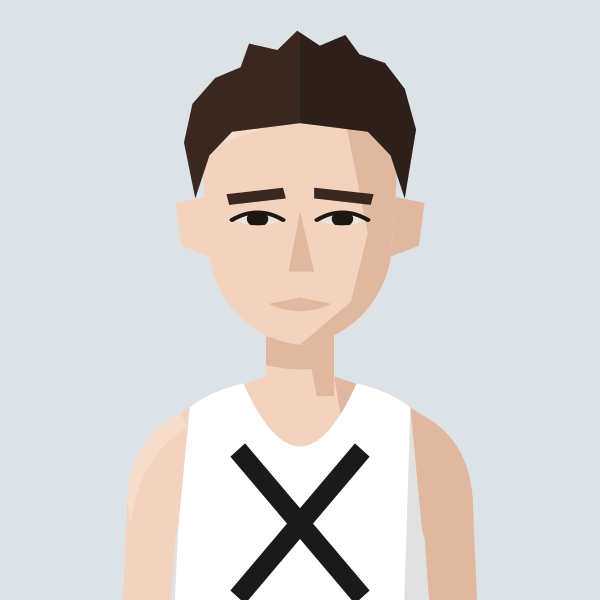
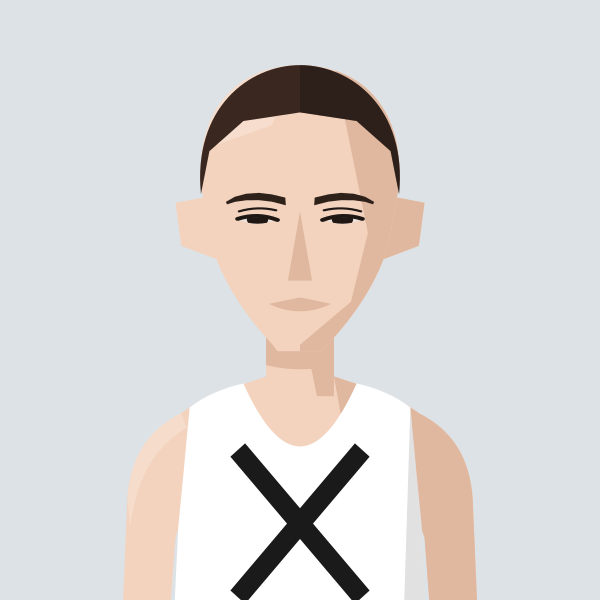
Redraw Jared Martin: triangular head with a long flat chin, short crop, small hooded eyes, soft curved brows
Claude-Session: https://claude.ai/code/session_01MgmDWhFqnSSnP4iBLKXUZC

diff --git a/files/index.html b/files/index.html
@@ -876,7 +876,7 @@ const portraitFile=(name,club)=>{const k=normalizeNameForCompare(name||'').repla
 const portraitClubOf=(name,clubs)=>{for(const c of clubs||[]){if(c&&portraitFile(name,c))return c;}return null;}; /* first of these clubs we have a portrait for */
 // Athlete header figure: superstar portrait if we have one, else a grey runner in the club vest, else the plain vest icon
 // Changes whenever any portrait changes (set by tools/build_og.py), so browsers fetch fresh images instead of old cached ones
-const PORTRAIT_V='fe9d2b44';const PORTRAIT_WOMEN='abbey-brooke,abbie-bulbulian,adele-prince,aimee-hargreaves,aisling-ahern,alex-brown,alex-gandee,alex-marginean,alex-miller,alexa-parker,alexandra-barbour,alice-braham,alice-bridger-morales,alice-crane,alice-martin,alice-reed,alice-smith,alison-purnell,alison-thomson,amelia-pettitt,amy-clements,andrea-barber,anika-schwarze-chintapatla,anna-garnier,anna-garnier-hw,anna-sharp,annabel-hobday,annabelle-hadlow,anne-hegvold,annmarie-seymour,ava-mcandie,becky-briggs,bethan-goddard,bethanie-murray,bethany-brown,betsy-griffiths,billie-mcclosky,camilla-barden,caoimhe-nic-fhogartaigh,carolyne-baxter,catherine-bryson,catherine-eastham,catherine-kandie,cathy-ansell,charlotte-griffiths,chloe-beckett,chloe-tighe,chrissie-wellington,claire-grima,clara-pettit,clare-elms,clare-pauzers,dillan-quinn,dorchie-cockerell,eilidh-hide,elinor-skinner,eliza-grant,elizabeth-apsley,elizabeth-stavreski,ella-fennelly,ella-king-powrie,ella-may-hards,ella-newton,ellen-weir,ellie-brown,ellie-freeden,eloise-bull,emilie-arnoux,emily-barrett,emily-bradley,emily-lowery,emily-robbins,emma-gordon,emma-howsham,emma-lord,emma-rowland,estle-viljoen,evie-warren,felicity-cole,felicity-harrison,felicity-hayward,fi-maddocks,fiona-de-mauny,florence-wiggins,gabby-collison,gabriel-reynolds,gemma-newport,genevieve-blanch,georgia-curry,georgie-bruinvels,georgie-fenn,georgie-furze,georgie-grgec,gina-galbraith,grace-leyland,grace-richardson,hannah-edwards,hannah-english,heather-statham,heather-statham-cc,helena-corbin,helena-keenan,holly-nixon,holly-pan,imogen-mackie,imogen-wolsey,iona-cousland,isabel-bradley,isabel-brinsden,isabelle-pickett,isobel-hodder,jennifer-nandi,jennifer-smith,jess-reed,jess-saunders,jess-winfield,jessica-davies,jessica-lowe,jodie-favell,jon-hobbs,josephine-rhodes,julia-bleasdale,julia-wedmore,juliet-hodder,jurgita-levertaviciute,justine-lynch,karen-fenner,karen-xiang,karina-box,kate-axford,kate-williams,kathy-sharpe,katie-ellen-french,katie-good,katie-snowden,katy-hedgethorne,kitty-shepherd-cross,kristina-popadich,lara-bromilow,lara-mangan,laura-goodson,laura-miles,lauren-major,lea-adamson,lily-newton,lisa-bailey,lisa-thomas,lisa-thomas-hw,lizzie-goldie-scot,louise-cooper,lucy-jones,lucy-macalister,lucy-peters,lydia-blackmore,lydia-gallyer-barnett,maddie-mastrolonardo,maddy-whitman,maeve-kenny,margaret-coogan,martina-conner,mary-james,mary-setyabule,matilde-lomba,megan-gildea,mel-wilkins,mhairi-hall,mimi-corden-lloyd,molly-oconnor,molly-smith,monika-gajek,naomi-lenane,natalie-beadle,natalie-seymour,natasha-lodge,niamh-thompson,nicky-hayes,nicola-cartlidge,nicola-douglas,nikki-sturzaker,olivia-papaioannou,olivia-stillman,orna-mcginley,pamela-mchutchon,patricia-walker,patrizia-gnoato,penny-oliver,rachel-brown,rebecca-barrow,rebekah-edgar,ruby-carter,ruby-whyte-wilding,ruby-woolfe,sally-urquhart,sam-whiting,samantha-munday,sarah-astin,sarah-dewhirst,sarah-grover,sarah-hanley,sarah-holt,sarah-murphy,sarah-palmer,sarah-palmer-ran,sarah-riceman,sarah-young,saron-haileselase,serena-carter,sophie-cowper,sophie-harris,sophie-hicks,sophie-tooley,stacey-ward,steph-hewitt,steph-mccall,steph-mccall-cc,steph-mccall-slh,steph-mitchell,suzanne-swaine,suze-spalding,suzie-harvey,suzy-whatmough,teresa-murphy,tilly-heaton,tilly-heaton-bel,tish-jones,vic-cartwright,vicky-clarke,victoria-barthelmess,victoria-buck,vikki-filsell,zoe-doyle,zoe-macdonald,zuzana-nemeckova';const PORTRAIT_MEN='aaron-wilson,abdulla-elsadig,adam-leane,adrian-major,adrien-royer,alan-black,alan-mead,alex-brecker,alex-bruce-littlewood,alex-gutteridge,alex-harris,alex-howard,alex-janiaud,alex-lee,alex-lennon,alex-mills,alex-milne,alex-morales,alex-robinson,alex-yee,alexander-marks,amittai-ben-israel,andrew-cumine,andrew-green,andrew-penney,andrew-perfect,andrew-simms,andrew-warburton,andrius-jaksevicius,andy-coley-maud,andy-coley-maud-cc,andy-fyfe,andy-north,andy-paton,andy-weir,angus-butler,angus-lamb,anisse-ismaili,arlo-ludewick,arne-dumez,arthur-peel,ashley-goncalves,barnaby-day,barry-collins,barry-sawyer,ben-clarke,ben-coughlan,ben-harding,ben-hurley,ben-ireland,ben-millar,ben-paviour,ben-pearce,ben-racle,ben-revill,ben-reynolds,ben-scott,ben-toomer,benedict-whitby,benjamin-hilson,bernie-ford,bill-kerr,bill-weller,bill-weller-wal,bob-harrison,bob-holt,bob-lunnon,bob-rayman,bob-smith,bradley-courtney-pinn,brandon-dewar,brian-gorman,brian-wilder,caleb-hathaway,callum-stewart,cameron-dockerill,cameron-reilly,carl-delaney,charles-herrington,charlie-dabbs,charlie-dickinson,charlie-eastaugh,charlie-manning,charlie-pickett,charlie-rogers,charlie-sandison,charlie-walker,charlie-wyllie,che-compton,chris-busaileh,chris-busaileh-hhh,chris-greenwood,chris-keavey,chris-moss,chris-steer,chris-threadgold,chris-warren,christian-lee,christopher-parker,clive-gilby,clive-shippen,colin-high,colin-pearson,conall-mcnally,conall-whelan,craig-ruddy,dame-dibaba,dan-cliffe,dan-pettitt,daniel-shaw,daniel-wolff,darren-mead,dave-beard,dave-beaver,dave-glassborow,dave-holt,dave-taylor,david-anderson,david-bowers,david-grima,david-north,david-ogden,david-symons,david-walsh,david-williams,deron-fagan,dick-piotrowski,dimos-evangelidis,dom-nolan,dominic-kiralyfi,don-anderson,don-faircloth,don-maclean,doug-maughan,duncan-rimmer,dylan-evans,dylan-mitchard,ed-brewer,ed-catmur,ed-gibson,ed-mallett,eddie-herridge,eddie-jodrell,eddie-rolls,edward-chuck,eoin-brady,eoin-molloy,ethan-mccolgan,falilou-kebe,findlay-dyer,finn-johnson,fintan-pearce,frank-tickner,frank-ward,fred-paget,fred-slemeck,freddie-hessian,garret-lee,gary-ribbons,gary-ribbons-ee,gary-staines,gary-staines-bel,gavin-eccles,geoff-biscoe,geoff-jerwood,geoff-north,george-cotton,george-gathercole,george-jackson,george-loxton,george-mallett,george-ogden,gerry-adams,gerry-north,glen-keegan,gordon-pearce,graham-macky,grenville-tuck,harrison-hayman,harry-guttridge,hector-revill,henry-hart,henry-silverstein,hugo-hewitt,huw-lobb,ian-acreman,ian-crowe-wright,ian-ellwood,ian-harkness,indy-barnes,isaac-lutaya,isaac-parker,jack-brotchie,jack-dickson,jack-dormer,jack-hampshire,jack-harrison,jack-hobden,jack-kavanagh,jack-millar,jack-ramm,jack-woods,jacob-brockmann,jake-simmonds,james-bartram,james-blackwood,james-bowler,james-estall,james-ewing,james-fox,james-hancock,james-harvey,james-hoad,james-kelly,james-mcmullan,james-murray,james-nutt,james-preston,james-roberts,james-stockings,james-ward,james-wootton,jamie-crowe,jamie-parkinson,jared-martin,jean-paul-wright,jeff-cunningham,jeremy-dempsey,jermaine-mays,jerry-watson,jim-allchin,jim-rimmer,joe-english,joe-hartley,john-baker,john-bicourt,john-bromley,john-davies,john-dear,john-foss,john-foxall,john-gilbert,john-gladwin,john-hutchins,john-kendall,john-kimaiyo,john-lee,john-lethbridge,john-mather,john-moore,john-roberts,john-sanderson,john-stow,john-sullivan,john-thresher,jon-pepper,jon-pepper-slh,jon-phillips,jon-solly,jonathan-cocker,jonathan-collier,jonathan-cornish,jonathan-ratcliffe,jonathan-tipper,jonny-neville,jonny-scott,jordan-weaver,josh-mitchell,josh-snow,josh-trigwell,jules-gevers,junior-galley,justin-chaston,justin-reid,kassa-tadesse,keith-newton,kevin-nash,kevin-quinn,kevin-sturman,kieran-barnes,kieran-white,knut-hegvold,knut-hegvold-bel,larry-ryan,lawrence-avery,lee-lintern,lewis-lloyd,liam-burthem,lionel-mann,lloyd-kempson,luke-caldwell,mack-downie,malachi-byansi,marcello-bizio,marcelo-fortes,marco-mazzotta,mark-anderson,mark-miles,mark-sinclair,mark-tennyson,mark-waller,martin-dent,martin-duff,martin-lake,martin-lewington,martin-shore,mathew-speed,matt-chaston,matt-jones,matt-wood,matthew-edgar,matthew-houchell,matthew-thomas,matthew-varley,max-bloor,max-heyden,max-milarvie,max-nicholls,michael-baker,michael-mccarthy,mick-woods,mike-beevor,mike-boyle,mike-cummings,mike-farmery,mike-fuller,mike-hayes,mike-kortenray,mike-nouch,mohammed-ismail,monty-hudson,morgan-roberts,nathan-visick,neil-chisholm,neil-phillips,neil-speaight,neil-wilson,nic-lukies,nick-acfield,nick-altmann,nick-bester,nick-bester-hhh,nick-buckle,nick-bundle,nick-goolab,nick-lightfoot,nick-morris,nick-torry,noah-fernandez,norman-stairs,oli-carrington,oliver-carrington,oliver-fox,oliver-reynolds,oliver-young,ollie-foote,ollie-garrod,olly-buck,owen-hind,paddy-roddy,pancho-panchev,paskar-owor,pat-newell,patrick-mcdougall,paul-calver,paul-cheetham,paul-freary,paul-magner,paul-pollock,paul-sanderson,paul-sanderson-wok,pete-carton,pete-gardner,peter-clarke,peter-giles,peter-giles-thh,peter-lighting,phil-carstairs,phil-sanders,phil-sesemann,phil-swinburn,phil-wicks,phil-woodford-smith,raj-paranandi,ralph-street,ranjit-bhatia,ray-foley,reece-edwards,rhys-boorman,rian-mccawley,richard-ashe,richard-giles,richard-henderson,richard-langley,richard-mcdowell,richard-ollington,richard-partridge,richard-sun,richard-ward,rob-armstrong,rob-kelly,rob-tuer,robert-elphick,robert-laing,robert-norville,robert-peacock,robert-sesemann,robin-boon,robin-hudson,roger-alsop,roger-alsop-bel,roger-hackney,ron-clark,ron-linstead,ronan-tanguy,rory-mcmahon,rory-orsborn,ross-braden,ross-christie,rowan-board,rowan-crichton,russell-dessaix-chin,ryan-hickey,ryan-mccallister,sam-bramwell,sam-charlton,sam-gebreselassie,sam-haughian,sam-peters,sam-sommerville,sam-tyas,samuel-dames,samuel-wilcock,sean-cordon,sebastian-anthony,simon-baines,simon-coombes,simon-coppard,simon-fairbrother,simon-holmes,simon-rayner,simon-rayner-hw,simon-wade,simon-wade-hhh,simon-waterhouse,simon-williams,simon-wurr,sonny-nicoll,spencer-barden,stephen-mcleod,stephen-sharp,steve-gardner,steve-jones,steve-smythe,steve-smythe-hhh,stuart-beaney,stuart-major,stuart-major-thh,stuart-mccallum,stuart-paton,terry-booth,thomas-dugre,thomas-gandee,thomas-gardner,thomas-renshaw,tim-alexander,tim-eglen,tim-lawrence,tim-watson,toby-cooke,toby-fletcher,tom-austin,tom-cheetham,tom-conlon,tom-davies,tom-gifford,tom-higgs,tom-jervis,tom-lole,tom-south,tom-thornley,tommy-taylor,tony-binda,tony-fairclough,tony-harran,trevor-hart,valdis-pauzers,valentin-rigori,vic-maughan,wayne-oxborough,will-cockerell,will-lewis,will-marshall,will-scott,will-stockley,william-gardner,yacin-yusuf,zach-nolan';
+const PORTRAIT_V='09515851';const PORTRAIT_WOMEN='abbey-brooke,abbie-bulbulian,adele-prince,aimee-hargreaves,aisling-ahern,alex-brown,alex-gandee,alex-marginean,alex-miller,alexa-parker,alexandra-barbour,alice-braham,alice-bridger-morales,alice-crane,alice-martin,alice-reed,alice-smith,alison-purnell,alison-thomson,amelia-pettitt,amy-clements,andrea-barber,anika-schwarze-chintapatla,anna-garnier,anna-garnier-hw,anna-sharp,annabel-hobday,annabelle-hadlow,anne-hegvold,annmarie-seymour,ava-mcandie,becky-briggs,bethan-goddard,bethanie-murray,bethany-brown,betsy-griffiths,billie-mcclosky,camilla-barden,caoimhe-nic-fhogartaigh,carolyne-baxter,catherine-bryson,catherine-eastham,catherine-kandie,cathy-ansell,charlotte-griffiths,chloe-beckett,chloe-tighe,chrissie-wellington,claire-grima,clara-pettit,clare-elms,clare-pauzers,dillan-quinn,dorchie-cockerell,eilidh-hide,elinor-skinner,eliza-grant,elizabeth-apsley,elizabeth-stavreski,ella-fennelly,ella-king-powrie,ella-may-hards,ella-newton,ellen-weir,ellie-brown,ellie-freeden,eloise-bull,emilie-arnoux,emily-barrett,emily-bradley,emily-lowery,emily-robbins,emma-gordon,emma-howsham,emma-lord,emma-rowland,estle-viljoen,evie-warren,felicity-cole,felicity-harrison,felicity-hayward,fi-maddocks,fiona-de-mauny,florence-wiggins,gabby-collison,gabriel-reynolds,gemma-newport,genevieve-blanch,georgia-curry,georgie-bruinvels,georgie-fenn,georgie-furze,georgie-grgec,gina-galbraith,grace-leyland,grace-richardson,hannah-edwards,hannah-english,heather-statham,heather-statham-cc,helena-corbin,helena-keenan,holly-nixon,holly-pan,imogen-mackie,imogen-wolsey,iona-cousland,isabel-bradley,isabel-brinsden,isabelle-pickett,isobel-hodder,jennifer-nandi,jennifer-smith,jess-reed,jess-saunders,jess-winfield,jessica-davies,jessica-lowe,jodie-favell,jon-hobbs,josephine-rhodes,julia-bleasdale,julia-wedmore,juliet-hodder,jurgita-levertaviciute,justine-lynch,karen-fenner,karen-xiang,karina-box,kate-axford,kate-williams,kathy-sharpe,katie-ellen-french,katie-good,katie-snowden,katy-hedgethorne,kitty-shepherd-cross,kristina-popadich,lara-bromilow,lara-mangan,laura-goodson,laura-miles,lauren-major,lea-adamson,lily-newton,lisa-bailey,lisa-thomas,lisa-thomas-hw,lizzie-goldie-scot,louise-cooper,lucy-jones,lucy-macalister,lucy-peters,lydia-blackmore,lydia-gallyer-barnett,maddie-mastrolonardo,maddy-whitman,maeve-kenny,margaret-coogan,martina-conner,mary-james,mary-setyabule,matilde-lomba,megan-gildea,mel-wilkins,mhairi-hall,mimi-corden-lloyd,molly-oconnor,molly-smith,monika-gajek,naomi-lenane,natalie-beadle,natalie-seymour,natasha-lodge,niamh-thompson,nicky-hayes,nicola-cartlidge,nicola-douglas,nikki-sturzaker,olivia-papaioannou,olivia-stillman,orna-mcginley,pamela-mchutchon,patricia-walker,patrizia-gnoato,penny-oliver,rachel-brown,rebecca-barrow,rebekah-edgar,ruby-carter,ruby-whyte-wilding,ruby-woolfe,sally-urquhart,sam-whiting,samantha-munday,sarah-astin,sarah-dewhirst,sarah-grover,sarah-hanley,sarah-holt,sarah-murphy,sarah-palmer,sarah-palmer-ran,sarah-riceman,sarah-young,saron-haileselase,serena-carter,sophie-cowper,sophie-harris,sophie-hicks,sophie-tooley,stacey-ward,steph-hewitt,steph-mccall,steph-mccall-cc,steph-mccall-slh,steph-mitchell,suzanne-swaine,suze-spalding,suzie-harvey,suzy-whatmough,teresa-murphy,tilly-heaton,tilly-heaton-bel,tish-jones,vic-cartwright,vicky-clarke,victoria-barthelmess,victoria-buck,vikki-filsell,zoe-doyle,zoe-macdonald,zuzana-nemeckova';const PORTRAIT_MEN='aaron-wilson,abdulla-elsadig,adam-leane,adrian-major,adrien-royer,alan-black,alan-mead,alex-brecker,alex-bruce-littlewood,alex-gutteridge,alex-harris,alex-howard,alex-janiaud,alex-lee,alex-lennon,alex-mills,alex-milne,alex-morales,alex-robinson,alex-yee,alexander-marks,amittai-ben-israel,andrew-cumine,andrew-green,andrew-penney,andrew-perfect,andrew-simms,andrew-warburton,andrius-jaksevicius,andy-coley-maud,andy-coley-maud-cc,andy-fyfe,andy-north,andy-paton,andy-weir,angus-butler,angus-lamb,anisse-ismaili,arlo-ludewick,arne-dumez,arthur-peel,ashley-goncalves,barnaby-day,barry-collins,barry-sawyer,ben-clarke,ben-coughlan,ben-harding,ben-hurley,ben-ireland,ben-millar,ben-paviour,ben-pearce,ben-racle,ben-revill,ben-reynolds,ben-scott,ben-toomer,benedict-whitby,benjamin-hilson,bernie-ford,bill-kerr,bill-weller,bill-weller-wal,bob-harrison,bob-holt,bob-lunnon,bob-rayman,bob-smith,bradley-courtney-pinn,brandon-dewar,brian-gorman,brian-wilder,caleb-hathaway,callum-stewart,cameron-dockerill,cameron-reilly,carl-delaney,charles-herrington,charlie-dabbs,charlie-dickinson,charlie-eastaugh,charlie-manning,charlie-pickett,charlie-rogers,charlie-sandison,charlie-walker,charlie-wyllie,che-compton,chris-busaileh,chris-busaileh-hhh,chris-greenwood,chris-keavey,chris-moss,chris-steer,chris-threadgold,chris-warren,christian-lee,christopher-parker,clive-gilby,clive-shippen,colin-high,colin-pearson,conall-mcnally,conall-whelan,craig-ruddy,dame-dibaba,dan-cliffe,dan-pettitt,daniel-shaw,daniel-wolff,darren-mead,dave-beard,dave-beaver,dave-glassborow,dave-holt,dave-taylor,david-anderson,david-bowers,david-grima,david-north,david-ogden,david-symons,david-walsh,david-williams,deron-fagan,dick-piotrowski,dimos-evangelidis,dom-nolan,dominic-kiralyfi,don-anderson,don-faircloth,don-maclean,doug-maughan,duncan-rimmer,dylan-evans,dylan-mitchard,ed-brewer,ed-catmur,ed-gibson,ed-mallett,eddie-herridge,eddie-jodrell,eddie-rolls,edward-chuck,eoin-brady,eoin-molloy,ethan-mccolgan,falilou-kebe,findlay-dyer,finn-johnson,fintan-pearce,frank-tickner,frank-ward,fred-paget,fred-slemeck,freddie-hessian,garret-lee,gary-ribbons,gary-ribbons-ee,gary-staines,gary-staines-bel,gavin-eccles,geoff-biscoe,geoff-jerwood,geoff-north,george-cotton,george-gathercole,george-jackson,george-loxton,george-mallett,george-ogden,gerry-adams,gerry-north,glen-keegan,gordon-pearce,graham-macky,grenville-tuck,harrison-hayman,harry-guttridge,hector-revill,henry-hart,henry-silverstein,hugo-hewitt,huw-lobb,ian-acreman,ian-crowe-wright,ian-ellwood,ian-harkness,indy-barnes,isaac-lutaya,isaac-parker,jack-brotchie,jack-dickson,jack-dormer,jack-hampshire,jack-harrison,jack-hobden,jack-kavanagh,jack-millar,jack-ramm,jack-woods,jacob-brockmann,jake-simmonds,james-bartram,james-blackwood,james-bowler,james-estall,james-ewing,james-fox,james-hancock,james-harvey,james-hoad,james-kelly,james-mcmullan,james-murray,james-nutt,james-preston,james-roberts,james-stockings,james-ward,james-wootton,jamie-crowe,jamie-parkinson,jared-martin,jean-paul-wright,jeff-cunningham,jeremy-dempsey,jermaine-mays,jerry-watson,jim-allchin,jim-rimmer,joe-english,joe-hartley,john-baker,john-bicourt,john-bromley,john-davies,john-dear,john-foss,john-foxall,john-gilbert,john-gladwin,john-hutchins,john-kendall,john-kimaiyo,john-lee,john-lethbridge,john-mather,john-moore,john-roberts,john-sanderson,john-stow,john-sullivan,john-thresher,jon-pepper,jon-pepper-slh,jon-phillips,jon-solly,jonathan-cocker,jonathan-collier,jonathan-cornish,jonathan-ratcliffe,jonathan-tipper,jonny-neville,jonny-scott,jordan-weaver,josh-mitchell,josh-snow,josh-trigwell,jules-gevers,junior-galley,justin-chaston,justin-reid,kassa-tadesse,keith-newton,kevin-nash,kevin-quinn,kevin-sturman,kieran-barnes,kieran-white,knut-hegvold,knut-hegvold-bel,larry-ryan,lawrence-avery,lee-lintern,lewis-lloyd,liam-burthem,lionel-mann,lloyd-kempson,luke-caldwell,mack-downie,malachi-byansi,marcello-bizio,marcelo-fortes,marco-mazzotta,mark-anderson,mark-miles,mark-sinclair,mark-tennyson,mark-waller,martin-dent,martin-duff,martin-lake,martin-lewington,martin-shore,mathew-speed,matt-chaston,matt-jones,matt-wood,matthew-edgar,matthew-houchell,matthew-thomas,matthew-varley,max-bloor,max-heyden,max-milarvie,max-nicholls,michael-baker,michael-mccarthy,mick-woods,mike-beevor,mike-boyle,mike-cummings,mike-farmery,mike-fuller,mike-hayes,mike-kortenray,mike-nouch,mohammed-ismail,monty-hudson,morgan-roberts,nathan-visick,neil-chisholm,neil-phillips,neil-speaight,neil-wilson,nic-lukies,nick-acfield,nick-altmann,nick-bester,nick-bester-hhh,nick-buckle,nick-bundle,nick-goolab,nick-lightfoot,nick-morris,nick-torry,noah-fernandez,norman-stairs,oli-carrington,oliver-carrington,oliver-fox,oliver-reynolds,oliver-young,ollie-foote,ollie-garrod,olly-buck,owen-hind,paddy-roddy,pancho-panchev,paskar-owor,pat-newell,patrick-mcdougall,paul-calver,paul-cheetham,paul-freary,paul-magner,paul-pollock,paul-sanderson,paul-sanderson-wok,pete-carton,pete-gardner,peter-clarke,peter-giles,peter-giles-thh,peter-lighting,phil-carstairs,phil-sanders,phil-sesemann,phil-swinburn,phil-wicks,phil-woodford-smith,raj-paranandi,ralph-street,ranjit-bhatia,ray-foley,reece-edwards,rhys-boorman,rian-mccawley,richard-ashe,richard-giles,richard-henderson,richard-langley,richard-mcdowell,richard-ollington,richard-partridge,richard-sun,richard-ward,rob-armstrong,rob-kelly,rob-tuer,robert-elphick,robert-laing,robert-norville,robert-peacock,robert-sesemann,robin-boon,robin-hudson,roger-alsop,roger-alsop-bel,roger-hackney,ron-clark,ron-linstead,ronan-tanguy,rory-mcmahon,rory-orsborn,ross-braden,ross-christie,rowan-board,rowan-crichton,russell-dessaix-chin,ryan-hickey,ryan-mccallister,sam-bramwell,sam-charlton,sam-gebreselassie,sam-haughian,sam-peters,sam-sommerville,sam-tyas,samuel-dames,samuel-wilcock,sean-cordon,sebastian-anthony,simon-baines,simon-coombes,simon-coppard,simon-fairbrother,simon-holmes,simon-rayner,simon-rayner-hw,simon-wade,simon-wade-hhh,simon-waterhouse,simon-williams,simon-wurr,sonny-nicoll,spencer-barden,stephen-mcleod,stephen-sharp,steve-gardner,steve-jones,steve-smythe,steve-smythe-hhh,stuart-beaney,stuart-major,stuart-major-thh,stuart-mccallum,stuart-paton,terry-booth,thomas-dugre,thomas-gandee,thomas-gardner,thomas-renshaw,tim-alexander,tim-eglen,tim-lawrence,tim-watson,toby-cooke,toby-fletcher,tom-austin,tom-cheetham,tom-conlon,tom-davies,tom-gifford,tom-higgs,tom-jervis,tom-lole,tom-south,tom-thornley,tommy-taylor,tony-binda,tony-fairclough,tony-harran,trevor-hart,valdis-pauzers,valentin-rigori,vic-maughan,wayne-oxborough,will-cockerell,will-lewis,will-marshall,will-scott,will-stockley,william-gardner,yacin-yusuf,zach-nolan';
 // Runners whose dog pops up on their own profile page (a -dog.svg version of their portrait)
 const PROFILE_DOGS=new Set(['john-sanderson','penny-oliver','james-hancock','angus-butler']);
 const AthletePortrait=({name,club,w,fill,onClick,blink})=>{const[failed,setFailed]=useState(false);const file=portraitFile(name,club);const src0=file?`/portraits/athletes/${file}.svg?v=${PORTRAIT_V}`:PORTRAIT_CLUBS.has(club)?`/portraits/clubs/${club.replace(/\//g,'').replace(/&/g,'and')}.svg?v=${PORTRAIT_V}`:null;const blinkSrc=useBlinkSrc(file?(PROFILE_DOGS.has(file)?`/portraits/athletes/${file}-dog.svg?v=${PORTRAIT_V}`:src0):null,!!blink);const src=blinkSrc||src0;if(!src||failed)return<div onClick={onClick} className={onClick?'cursor-pointer':''}><ClubShield club={club} size={w}/></div>;const h=Math.round(w*148/126),ih=Math.round(w*1.4);if(fill)return<div onClick={onClick} className="cursor-pointer" style={{alignSelf:'stretch',minHeight:h,aspectRatio:'126 / 148',flexShrink:0,position:'relative',borderRadius:4,overflow:'hidden'}}><img src={src} alt={file?`Portrait of ${name.replace(/\s*\([^)]*\)$/,'')}`:`Runner in ${CLUBS[club]?.name||club} vest`} style={{position:'absolute',top:0,left:0,display:'block',width:'100%',height:'auto'}} onError={()=>setFailed(true)}/></div>;return<div style={{width:w,height:h,borderRadius:4,overflow:'hidden',flexShrink:0}}><img src={src} alt={file?`Portrait of ${name.replace(/\s*\([^)]*\)$/,'')}`:`Runner in ${CLUBS[club]?.name||club} vest`} width={w} height={ih} style={{display:'block',width:w,height:ih}} onError={()=>setFailed(true)}/></div>;};

diff --git a/tools/gen_portraits.py b/tools/gen_portraits.py
@@ -1925,4 +1925,23 @@ def chincrease(svg, skin=1, tag="f", y=164, lit=True, w=1.0):
 # Owen Hind (KEN), redrawn Oct 2026: dark brown tufty hair with a slight recede, oblong face with a long strong chin and a crease
 # halfway down it (chin lit below, both widened), slim wide-set cheek hollows low by the base of the nose, small eyes slightly close together tucked right under heavy straight brows
 save("hind", chincrease(longchin(cheekhollows(sockets(nose(angledbrows(brows(eyes(figure("KEN", skin=1, hair="tuftrecede", hair_colour="#3A2820", brow_colour="#2A1D16", jaw="broadchin"), "small", -1.5), 0, -1.5, 6.5), 1.0), 0.95, 1.2), depth=1.3), inset=4, dy=9)), y=163.5, lit=True, w=1.45))
+# ---- Triangular head with a long flat chin (Oct 2026, first used for Jared Martin) ----
+HEAD_TRI = "M65,96 C63,58 80,40 100,40 C120,40 137,58 135,96 L131.5,122 C128,140 119,157 110,169.5 L108,173 L92,173 L90,169.5 C81,157 72,140 68.5,122 Z"  # broad temples tapering straight to a long, narrow, flat chin
+def trihead(svg):
+    """Swap the default round head (jaw=None) for the triangular head with a long flat chin."""
+    return svg.replace(HEAD, HEAD_TRI)
+def softbrows(svg, thick=3.4, rise=0.0):
+    """Medium-weight brows in one soft, even curve, a little fuller at the inner end (a kind, open look); keeps the brow height. rise lifts the inner ends."""
+    m = _rq.search(r'<g fill="(#[0-9A-Fa-f]{3,6})"( [^>]*)?><polygon points="[0-9.]+,[0-9.]+ [0-9.]+,([0-9.]+) [^"]+"/><polygon points="[^"]+"/></g>', svg)
+    if not m: return svg
+    dy = float(m.group(3)) - 100
+    t = thick
+    top = [(73.8,103.6),(77,101.2),(81,99.8),(85.5,99.4),(90,100.1-rise*.5),(94.8,101.6-rise)]
+    bot = [(95,101.6-rise+t*1.05),(90,100.1-rise*.5+t),(85.5,99.4+t),(81,99.8+t*.9),(77,101.2+t*.7),(74.2,103.9+t*.25)]
+    L = top+bot
+    f = lambda pts: " ".join(f"{x:g},{y+dy:g}" for x, y in pts)
+    return svg[:m.start()] + f'<g fill="{m.group(1)}"><polygon points="{f(L)}"/><polygon points="{f([(200-x, y) for x, y in L])}"/></g>' + svg[m.end():]
+# Jared Martin (THH), redrawn Oct 2026: short dark brown crop, triangular head with broad temples and a long flat chin,
+# small hooded eyes under soft curved medium brows, long nose, clean cheeks
+save("jared-martin", trihead(nose(softbrows(brows(eyes(figure("THH", skin=1, hair="crop", hair_colour="#3A2820", brow_colour="#2E211A"), "smallhooded", 0), 0, 0, 3), 3.4, 0), 0.95, 1.15)))
 export_site()
